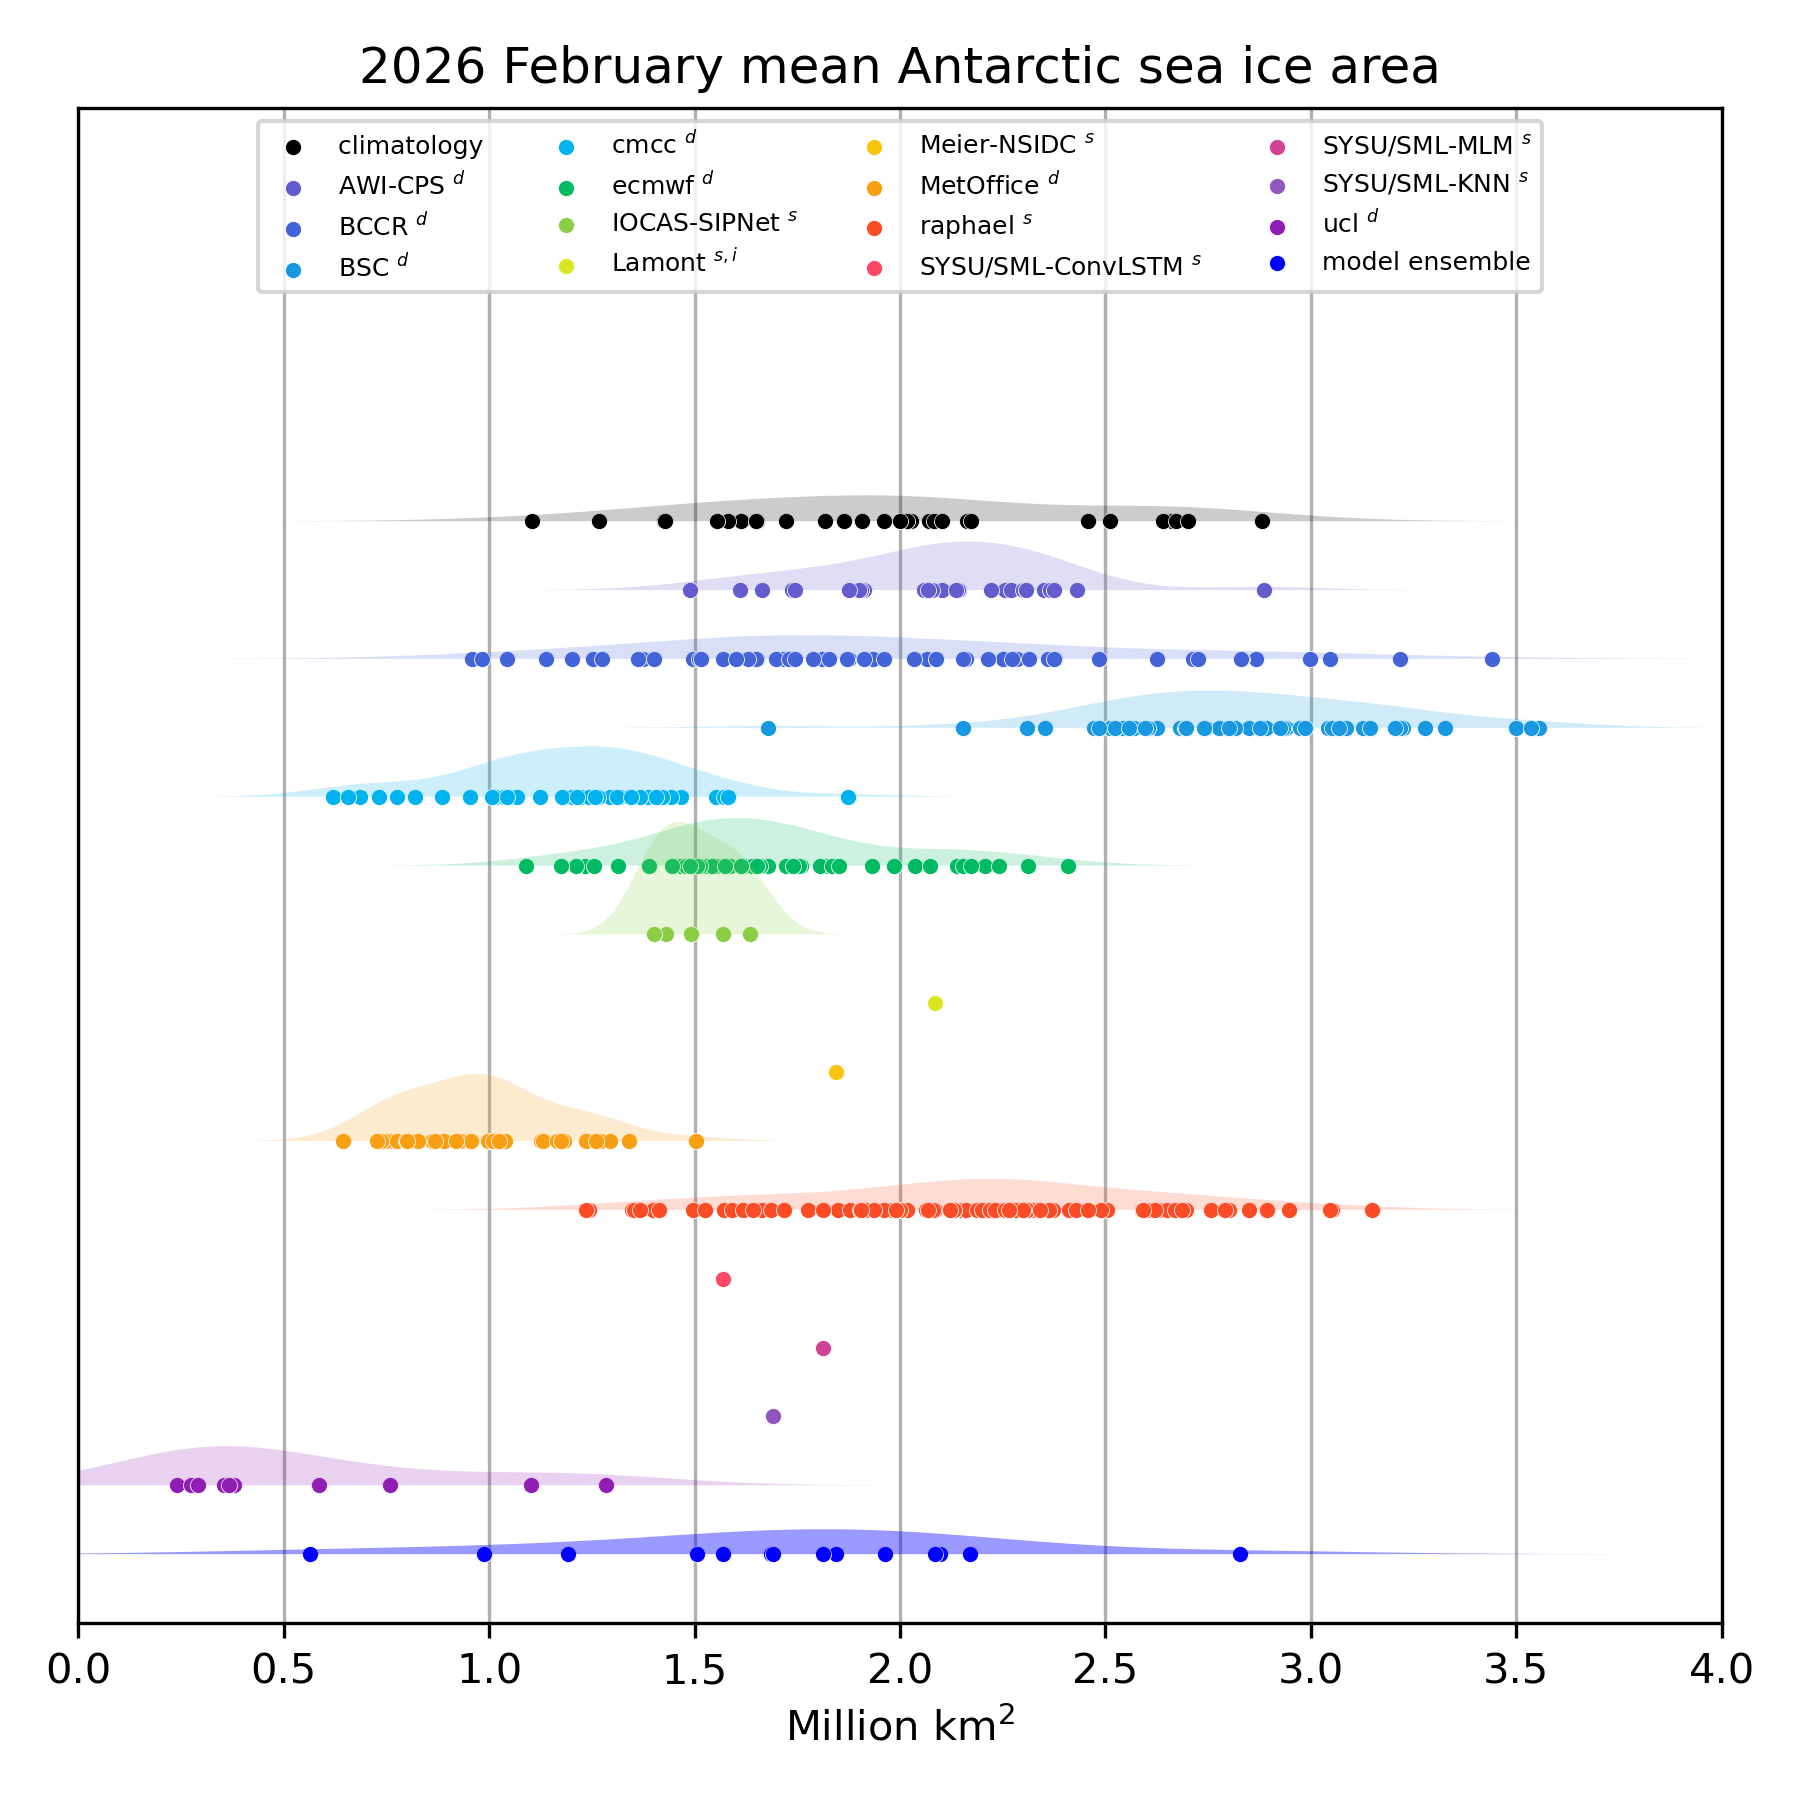
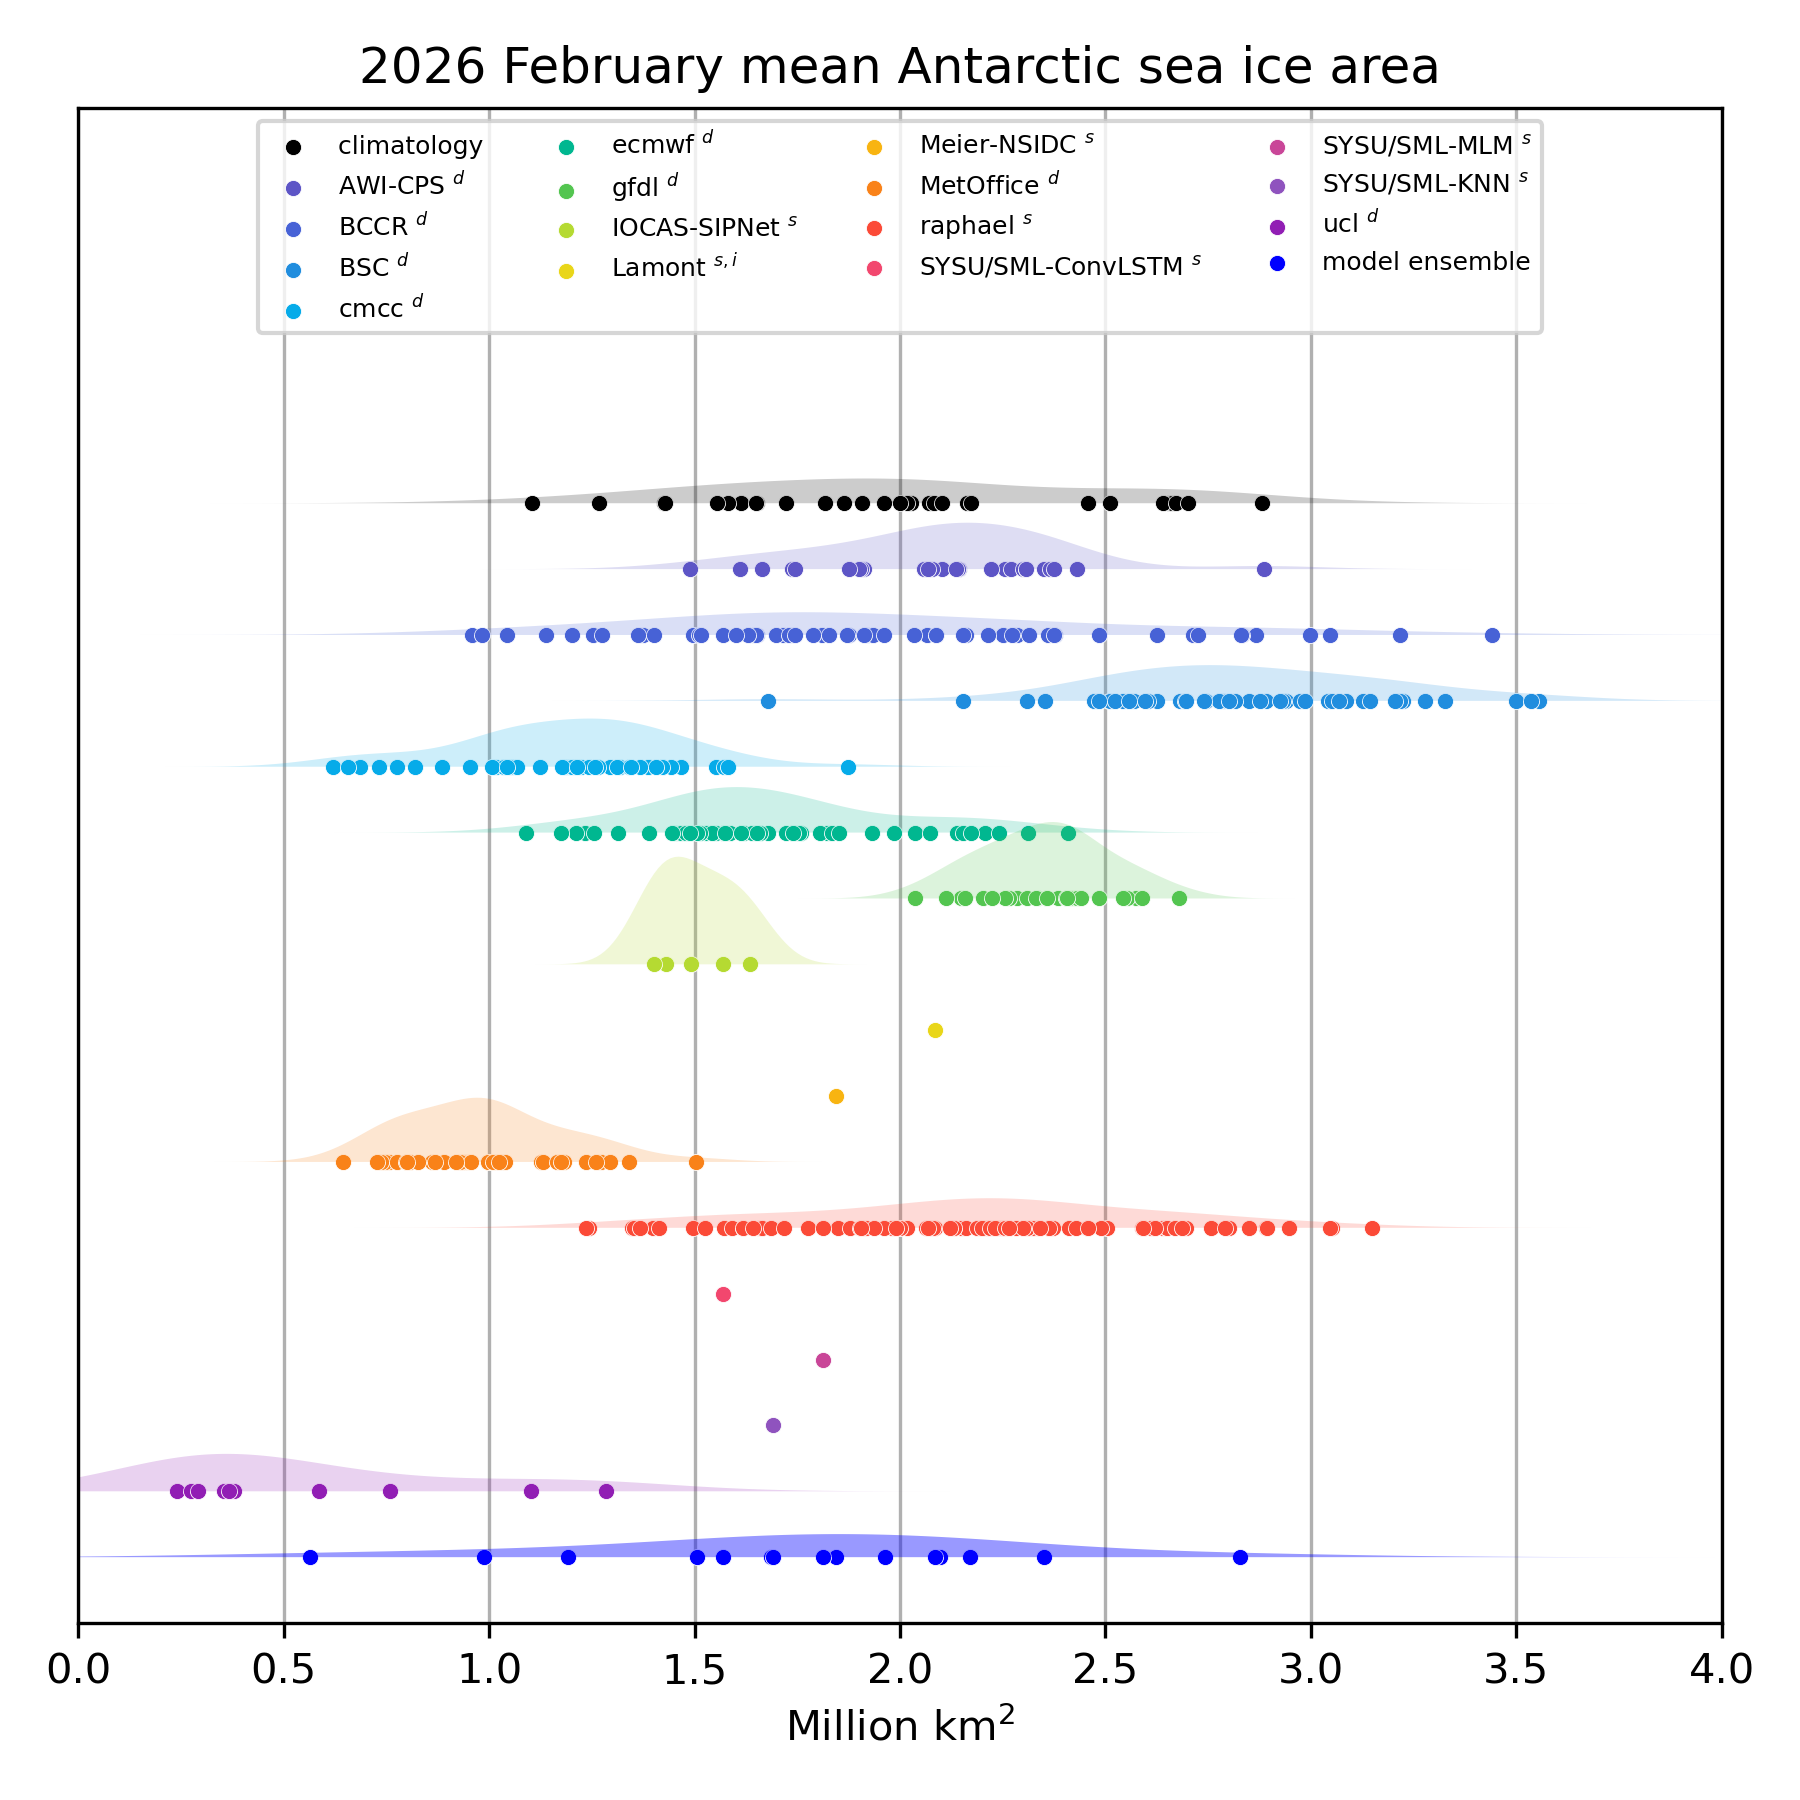
update gfdl

diff --git a/analyses.md b/analyses.md
@@ -8,22 +8,23 @@ Due to the cessation of the production of the OSI-401-b product, the analyses fr
 
 We warmly thank the following groups for contributing a forecast this year:
 
-| # | Contributor name | Short name (in figures) | Forecasting method              | Ensemble size  | Initialization date* | Forecast submission date   | Diagnostics provided        |
+| # | Contributor name | Short name (in figures) | Forecasting method              | Ensemble size  | Initialization date* | Forecast reception date   | Diagnostics provided        |
 |---|------------------|-------------------------|---------------------------------|----------------|---------------------|-----------------------------|-----------------------------|
 | 1 | AWI              | AWI-CPS                 | Dynamical model                 | 30             | 30th November 2025  |  10th December 2025         | SIA+rSIA+SIC+SIV            |
 | 2 | BCCR             | BCCR                    | Dynamical model                 | 60             | 1st December 2025   |  22nd December 2025         | SIA+rSIA                    |
 | 3 | BSC              | BSC                     | Dynamical model                 | 50             | 1st November 2025   |  13th January 2026          | SIA+rSIA+SIC+SIV            |
 | 4 | CMCC             | cmcc                    | Dynamical model                 | 50             | 1st  November 2025  |  10th December 2025         | SIA+rSIA+SIC                |
 | 5 | Climatological forecast | climatology      | Statistical; ensemble of all 30 previous years | 30 | 28 February 2025 |  18th December 2025         | SIA+rSIA+SIC                |
-| 6 | ECMWF            | ecmwf                   | Dynamical model                 | 51             | 1st December        |  22nd December 2025         | SIA+rSIA                    |
-| 7 | IOCAS            | IOCAS-SIPnet            | Statistical model               | 5              | 1st  December       |  12th December 2025         | SIA+rSIA+SIC                |
-| 8 | Lamont           | Lamont                  | Statistical model               | 1              | 30th November       |  10th December 2025         | SIA+rSIA+SIC (interpolated) |
-| 9 | Meier (NSIDC)    | Meier-NSIDC             | Statistical model               | 1              | 1st  December       |  23 December 2025           | SIA                         |
-| 10 | Met Office       | MetOffice               | Dynamical model                 | 42             | 30th November       |  2nd December 2025          | SIA+rSIA+SIC                |
-| 11| SYSU/SML         | SYSU/SML-ConvLSTM       | Statistical model               | 1              | 1st  December       |  8th December 2025          | SIA                         |
-| 12| SYSU/SML         | SYSU/SML-MLM            | Statistical model               | 1              | 1st  December       |  8th December 2025          | SIA+rSIA+SIC                |
-| 13| SYSU/SML         | SYSU/SML-KNN            | Statistical model               | 1              | 1st  December       |  8th December 2025          | SIA+rSIA+SIC                |
-| 14| UCLouvain        | ucl                     | Dynamical model (ocean-sea ice) | 10             | 1st of December     |  15th December 2025         | SIA+rSIA+SIC+SIV            |
+| 6 | ECMWF            | ecmwf                   | Dynamical model                 | 51             | 1st December 2025   |  22nd December 2025         | SIA+rSIA                    |
+| 7 | GFDL             | gfdl                    | Dynamical model                 | 30             | 1st December 2025   |  6th February 2026          | SIA+rSIA+SIC                |
+| 8 | IOCAS            | IOCAS-SIPnet            | Statistical model               | 5              | 1st  December 2025  |  12th December 2025         | SIA+rSIA+SIC                |
+| 9 | Lamont           | Lamont                  | Statistical model               | 1              | 30th November 2025  |  10th December 2025         | SIA+rSIA+SIC (interpolated) |
+| 10 | Meier (NSIDC)    | Meier-NSIDC             | Statistical model               | 1              | 1st  December 2025  |  23 December 2025           | SIA                         |
+| 11 | Met Office       | MetOffice               | Dynamical model                 | 42             | 30th November 2025 |  2nd December 2025          | SIA+rSIA+SIC                |
+| 12| SYSU/SML         | SYSU/SML-ConvLSTM       | Statistical model               | 1              | 1st  December 2025  |  8th December 2025          | SIA                         |
+| 13| SYSU/SML         | SYSU/SML-MLM            | Statistical model               | 1              | 1st  December 2025  |  8th December 2025          | SIA+rSIA+SIC                |
+| 14| SYSU/SML         | SYSU/SML-KNN            | Statistical model               | 1              | 1st  December 2025  |  8th December 2025          | SIA+rSIA+SIC                |
+| 15| UCLouvain        | ucl                     | Dynamical model (ocean-sea ice) | 10             | 1st of December 2025|  15th December 2025         | SIA+rSIA+SIC+SIV            |
 
 *Initialization date is defined as the date of the last information used to generate the forecast
 
